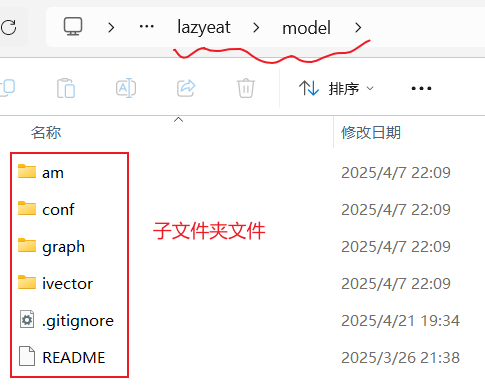
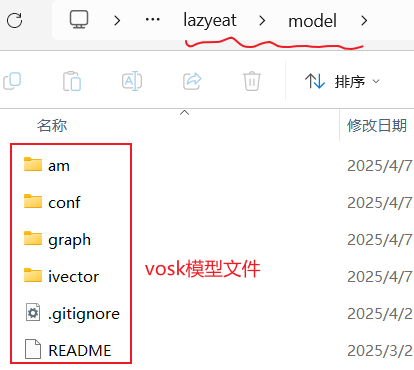
语音识别模型

diff --git a/README.md b/README.md
@@ -98,9 +98,27 @@ npm run build:py
 
 ### 下载语音识别模型并解压到 model 文件夹下
 
+#### 1. 下载模型压缩包
+
 ```bash
- https://alphacephei.com/vosk/models/vosk-model-small-cn-0.22.zip
+wget https://alphacephei.com/vosk/models/vosk-model-small-cn-0.22.zip
 ```
+
+#### 2. 解压模型压缩包
+
+```bash
+# 解压到 model 目录（会生成一个子文件夹 vosk-model-small-cn-0.22）
+unzip vosk-model-small-cn-0.22.zip -d model
+
+# 将子文件夹内容移动到 model 目录下，并删除空文件夹
+mv model/vosk-model-small-cn-0.22/* model/
+rmdir model/vosk-model-small-cn-0.22
+
+# （可选）删除下载的压缩包
+rm vosk-model-small-cn-0.22.zip
+```
+
+![img.png](.readme/img_model_example_inside.png)
 
 ### 运行 tauri dev 开发环境
 
